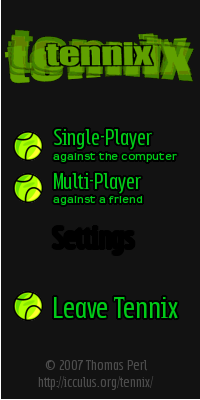
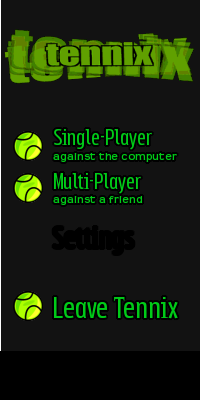
Tennix 0.3.3: Dynamic Text Engine
This is Tennix 0.3.3, adding the first version of our dynamic
text engine, which enables us drawing animated bit-mapped fonts
to the screen. Currently used in menus and as gameplay status.

This also disables loading the custom icon (SDL_WM_SetIcon)
when Tennix is ran on Mac OS X, as Tennix on OS X already has a
beatiful icon and OS X doesn't display per-window icons.

Changed region(s): [[0.0, 0.87, 1.0, 1.0]]

diff --git a/graphics.c b/graphics.c
@@ -22,6 +22,7 @@
  **/
 
 #include <stdio.h>
+#include <math.h>
 
 #include "tennix.h"
 #include "graphics.h"
@@ -41,8 +42,11 @@ static const char* filenames[] = {
     "ball.png",
     "score.png",
     "menu.png",
-    "animation.png"
+    "animation.png",
+    "smallish-font.png"
 };
+
+static const char* smallish_font_chars = " !\"#----()'+,-./0123456789:;<=>?@abcdefghijklmnopqrstuvwxyz";
 
 void init_graphics( const char *data_dir) {
     int i;
@@ -50,6 +54,7 @@ void init_graphics( const char *data_dir) {
     SDL_Surface* tmp;
     char temp[MAXPATHLEN];
 
+#ifndef MACOSX
     strcpy( temp, data_dir);
     strcat( temp, "icon.png");
     tmp = IMG_Load( temp);
@@ -57,6 +62,7 @@ void init_graphics( const char *data_dir) {
         SDL_WM_SetIcon( tmp, NULL);
         SDL_FreeSurface( tmp);
     }
+#endif
 
     images = (Image*)calloc( GR_COUNT, sizeof( Image));
 
@@ -218,5 +224,121 @@ void start_fade() {
 
 int is_fading() {
     return SDL_GetTicks() < fading_start+FADE_DURATION;
+}
+
+int font_get_metrics( unsigned int id, char ch, int* xp, int* wp) {
+    SDL_Surface *bitmap;
+    SDL_PixelFormat *fmt;
+    int pos, x = -1, w = 0;
+    int search_pos = 0, search_x = 0;
+    Uint8 red, green, blue;
+    Uint32 pixel;
+
+    if( id > GR_COUNT) return 0;
+
+    ch = tolower( ch);
+
+    if( ch == ' ') {
+        w = 5;
+    } else {
+        for( pos = 0; pos < strlen( smallish_font_chars); pos++) {
+            if( smallish_font_chars[pos] == ch)
+                break;
+        }
+
+        if( pos == strlen( smallish_font_chars)) {
+            return 0;
+        }
+
+        bitmap = images[id].data;
+        fmt = bitmap->format;
+
+        SDL_LockSurface( bitmap);
+        while( search_x < bitmap->w) {
+            pixel = *( (Uint32*)(bitmap->pixels + search_x*fmt->BytesPerPixel));
+            red = (Uint8)(((pixel & fmt->Rmask) >> fmt->Rshift) << fmt->Rloss);
+            green = (Uint8)(((pixel & fmt->Gmask) >> fmt->Gshift) << fmt->Gloss);
+            blue = (Uint8)(((pixel & fmt->Bmask) >> fmt->Bshift) << fmt->Bloss);
+
+            /* Increase pos counter if we have a "marker" pixel (255,0,255) */
+            if( red == 255 && green == 0 && blue == 255) {
+                search_pos++;
+                if( search_pos == pos) {
+                    x = search_x;
+                } else if( search_pos == pos + 1) {
+                    w = search_x - x;
+                    break;
+                }
+            }
+
+            search_x++;
+        }
+        SDL_UnlockSurface( bitmap);
+    }
+
+    if( wp != NULL) (*wp) = w;
+    if( xp != NULL) (*xp) = x;
+
+    return w;
+}
+
+int font_draw_char( unsigned int id, char ch, int x_offset, int y_offset) {
+    SDL_Surface *bitmap;
+    SDL_Rect src, dst;
+    int x = -1, w = 0;
+
+    font_get_metrics( id, ch, &x, &w);
+    if( x == -1) return w;
+
+    bitmap = images[id].data;
+
+    dst.w = src.w = w;
+    dst.h = src.h = bitmap->h - 1;
+    src.x = x;
+    src.y = 1;
+    dst.x = x_offset;
+    dst.y = y_offset;
+
+    SDL_BlitSurface( bitmap, &src, screen, &dst);
+
+    return src.w;
+}
+
+void font_draw_string( unsigned int id, char* s, int x_offset, int y_offset, int start, int animation) {
+    int y = y_offset;
+    int x = x_offset;
+    int i, xw;
+
+    if( animation & ANIMATION_SPACING) {
+        xw = (int)fabsf((15.0*sinf( start/10.0 + x_offset/30.0)));
+        x -= xw;
+    }
+
+    if( animation & ANIMATION_SKIP_TWO) {
+        x -= (strlen(s)*(int)(2.0*sinf( start / 10.0)))/2;
+    }
+
+    for( i=0; i<strlen(s); i++) {
+        if( animation & ANIMATION_WAVE) {
+            y = y_offset + (int)(3.0*sinf( start/10.0 + x/30.0));
+        }
+        x += font_draw_char( id, s[i], x, y);
+        if( animation & ANIMATION_SKIP_TWO) {
+            x += (int)(2.0*sinf( start / 10.0));
+        }
+        if( animation & ANIMATION_SPACING) {
+            x += (int)(xw/strlen(s));
+        }
+    }
+}
+
+int font_get_string_width( unsigned int id, char* s) {
+    int w = 0, i;
+
+    for( i=0; i<strlen(s); i++) {
+        w += font_get_metrics( id, s[i], NULL, NULL);
+    }
+
+    return w;
 }
 

diff --git a/game.c b/game.c
@@ -39,7 +39,8 @@ void game( bool singleplayer) {
         0,
         0,
         0,
-        true
+        true,
+        "welcome to tennix " VERSION
     };
 
     Uint32 ot = SDL_GetTicks();
@@ -95,10 +96,12 @@ bool step( GameState* s) {
 
             if( IS_OUT_Y( s->ball.y)) {
                 /* out - responsibilities stay the same */
+                s->status = "out -- don't hit the ball!";
                 sound_out();
             } else {
                 /* not out - responsibilities change */
                 s->player1.responsible = !(s->player2.responsible = !s->player2.responsible);
+                s->status = "";
             }
         }
         s->ground.jump = 3;
@@ -113,6 +116,20 @@ bool step( GameState* s) {
             s->player1_serves = s->player1.responsible;
 
             (s->player1.responsible)?(s->player2.score++):(s->player1.score++);
+
+            if( s->player1.responsible) {
+                if( s->player1.type == PLAYER_TYPE_HUMAN && s->player2.type == PLAYER_TYPE_AI) {
+                    s->status = "computer scores";
+                } else {
+                    s->status = "player 2 scores";
+                }
+            } else {
+                if( s->player1.type == PLAYER_TYPE_HUMAN && s->player2.type == PLAYER_TYPE_AI) {
+                    s->status = "player scores";
+                } else {
+                    s->status = "player 1 scores";
+                }
+            }
 
             game_setup_serve( s);
             sound_applause();
@@ -214,6 +231,8 @@ void render( GameState* s) {
     show_digit( 10, 156*2, 14, 100);
     show_digit( s->player2.score/10%10, 164*2, 14, 100);
     show_digit( s->player2.score%10, 172*2, 14, 100);
+
+    font_draw_string( GR_SMALLISH_FONT, s->status, (WIDTH-font_get_string_width( GR_SMALLISH_FONT, s->status))/2, HEIGHT-50, s->time/30, ANIMATION_WAVE);
 
 #ifdef DEBUG
     line_horiz( s->player1.y, 255, 0, 0);

diff --git a/tennix.c b/tennix.c
@@ -42,11 +42,15 @@ int main( int argc, char** argv) {
     int sdl_flags = SDL_SWSURFACE | SDL_DOUBLEBUF;
     char datadir[MAXPATHLEN];
     int highlight_y = 0;
+    char copyright_line[100];
+    int copyright_line_width, url_width;
 
     Point elektrons[ELEKTRONS];
     int el;
 
     fprintf( stderr, "Tennix %s\n%s\n%s\n\n", VERSION, COPYRIGHT, URL);
+
+    sprintf( copyright_line, "Tennix %s -- %s", VERSION, COPYRIGHT);
 
     srand( (unsigned)time( NULL));
 
@@ -89,6 +93,9 @@ int main( int argc, char** argv) {
 
     init_sound( datadir);
     init_graphics( datadir);
+
+    copyright_line_width = font_get_string_width( GR_SMALLISH_FONT, copyright_line);
+    url_width = font_get_string_width( GR_SMALLISH_FONT, URL);
    
     while( 1) {
         SDL_PollEvent( &e);
@@ -174,6 +181,8 @@ int main( int argc, char** argv) {
             sound_racket( 0);
         }
         show_sprite( GR_ANIMATION, (i++/12%4), 4, 40, 100, 255);
+        font_draw_string( GR_SMALLISH_FONT, copyright_line, (WIDTH-copyright_line_width)/2, HEIGHT-70, i, ((i/150)%ANIMATION_COUNT));
+        font_draw_string( GR_SMALLISH_FONT, URL, (WIDTH-url_width)/2, HEIGHT-30, i, ((i/50)%ANIMATION_COUNT));
         show_sprite( GR_RACKET, (mb&SDL_BUTTON( SDL_BUTTON_LEFT)) > 0, 4, mx, my, 255);
         updatescr();
 

diff --git a/graphics.h b/graphics.h
@@ -43,7 +43,16 @@ enum {
     GR_SCORE,
     GR_MENU,
     GR_ANIMATION,
+    GR_SMALLISH_FONT,
     GR_COUNT
+};
+
+enum {
+    ANIMATION_NONE = 0,
+    ANIMATION_WAVE = 1,
+    ANIMATION_SPACING = 2,
+    ANIMATION_SKIP_TWO = 4,
+    ANIMATION_COUNT = 8
 };
 
 void init_graphics( const char*);
@@ -59,6 +68,11 @@ void clearscr();
 void updatescr();
 void start_fade();
 int is_fading();
+
+int font_get_metrics( unsigned int id, char ch, int* xp, int* wp);
+int font_draw_char( unsigned int id, char ch, int x_offset, int y_offset);
+void font_draw_string( unsigned int id, char* s, int x_offset, int y_offset, int start, int animation);
+int font_get_string_width( unsigned int id, char* s);
 
 #endif
 

diff --git a/game.h b/game.h
@@ -71,6 +71,7 @@ typedef struct {
     unsigned int time;
     bool was_stopped;
     bool player1_serves;
+    char* status;
 } GameState;
 
 #define PI 3.1415
